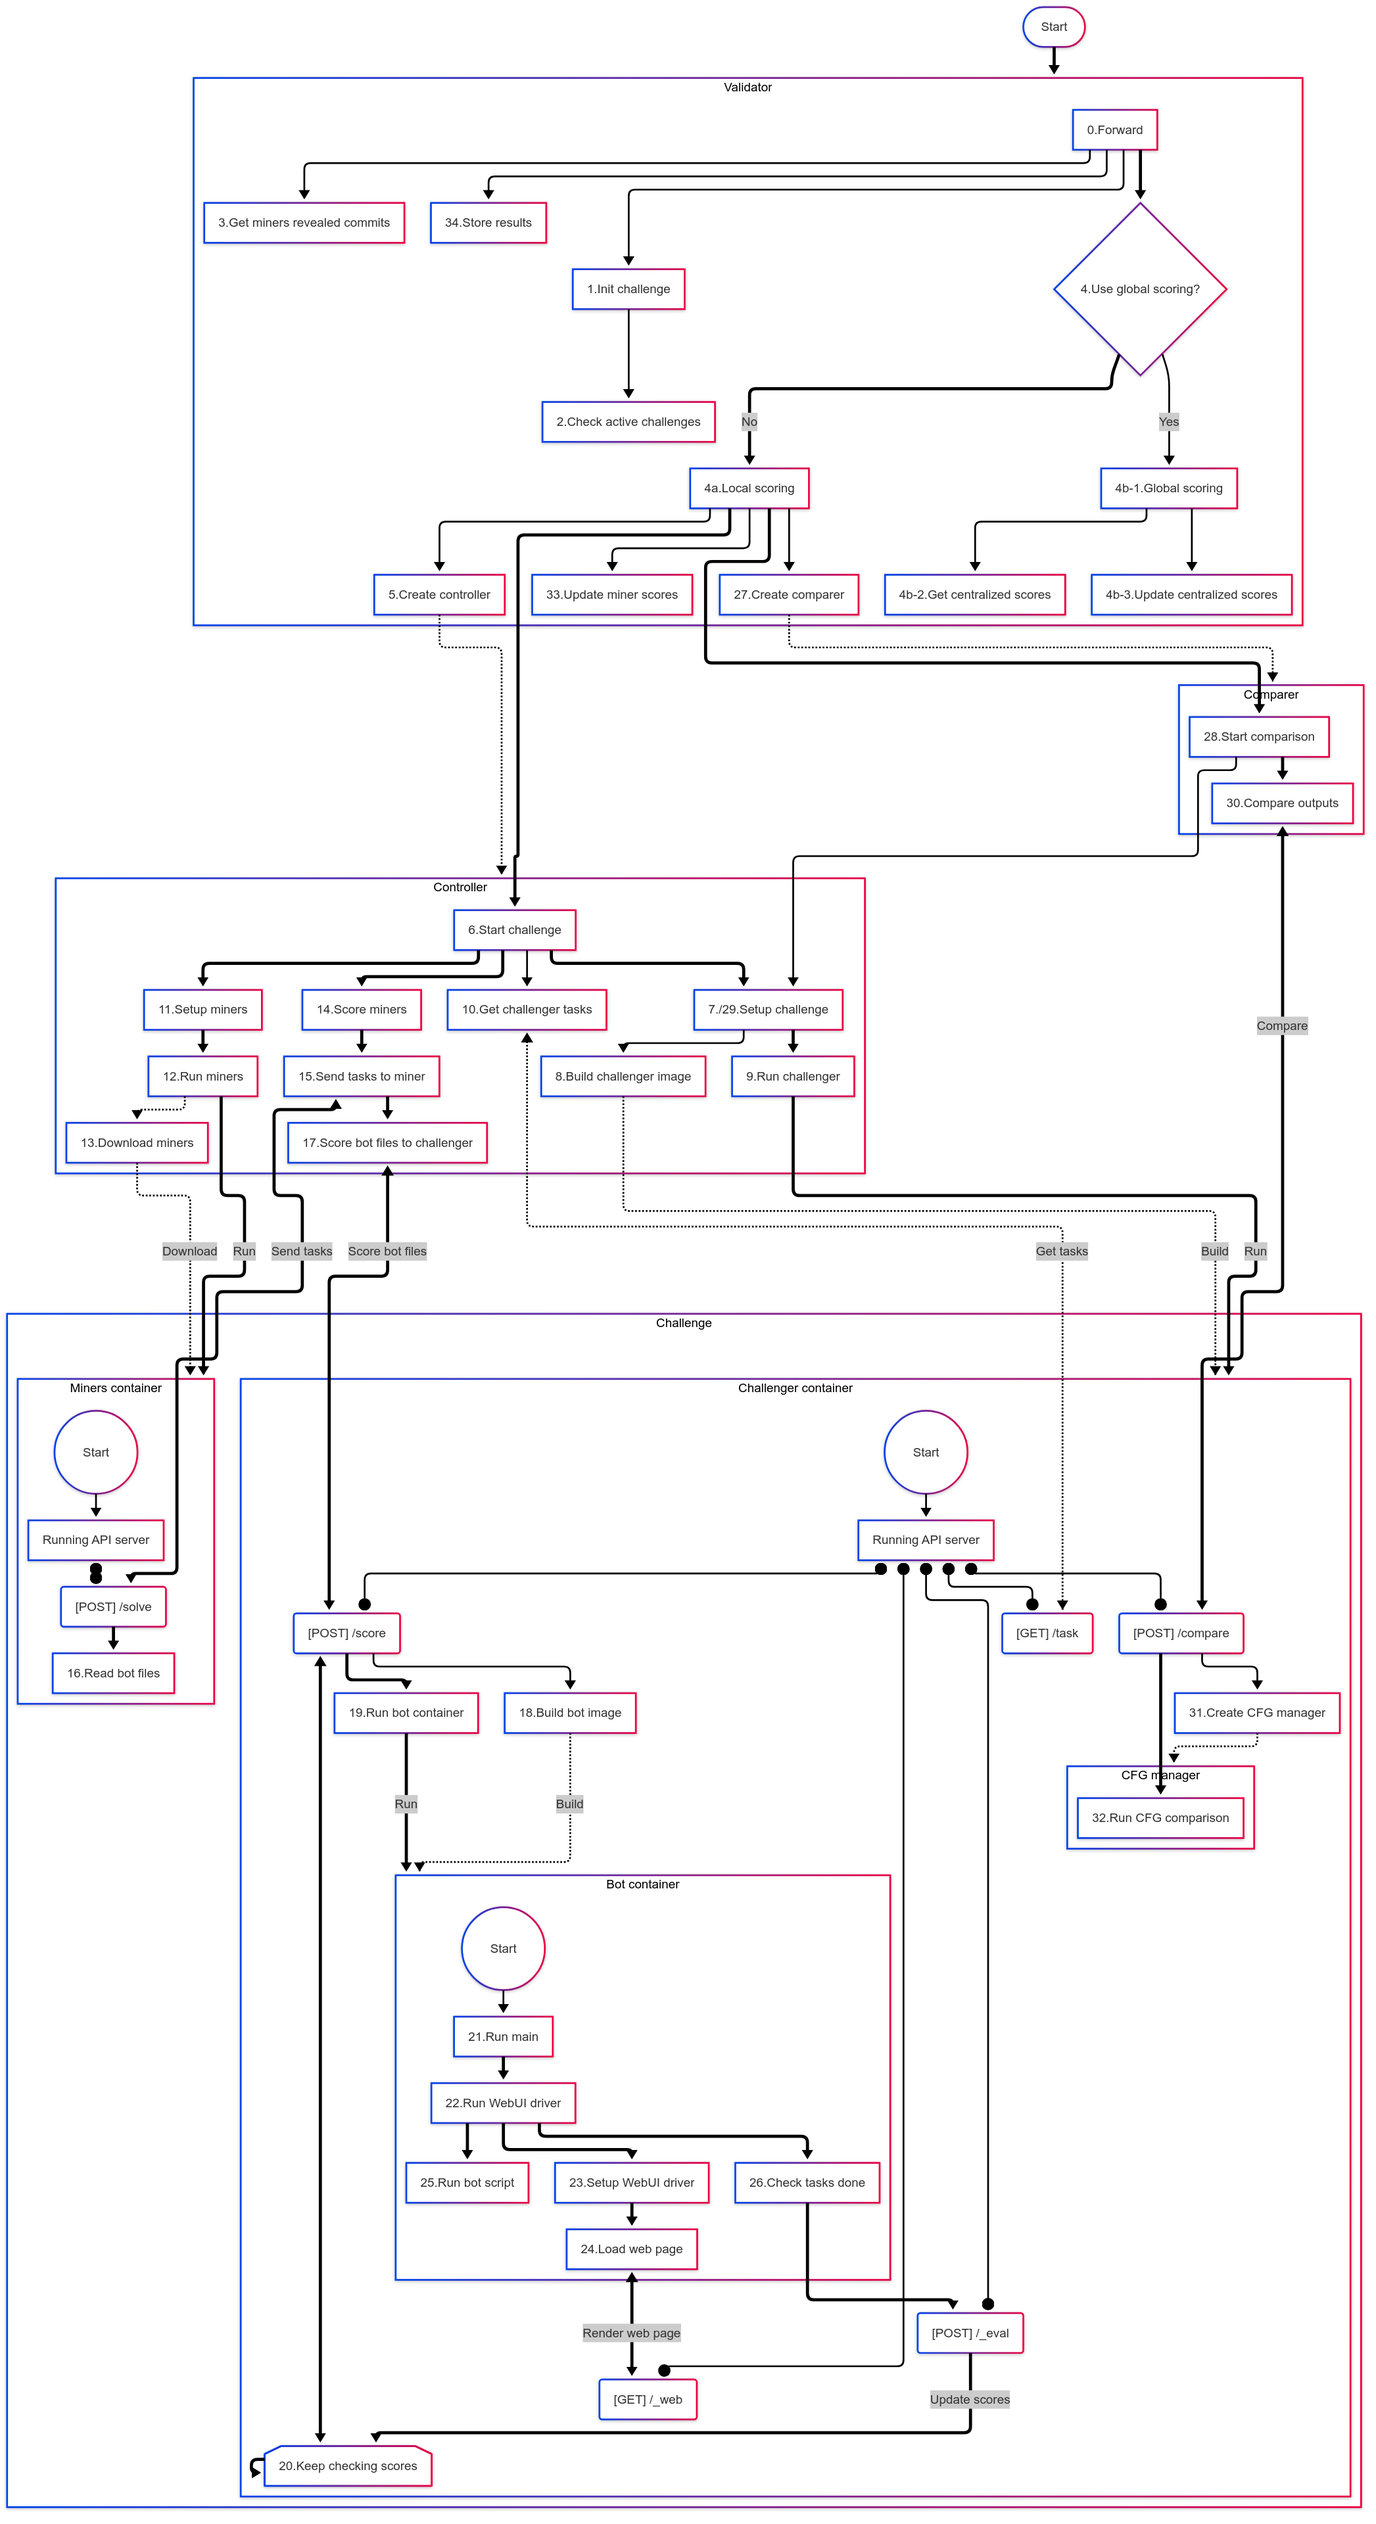
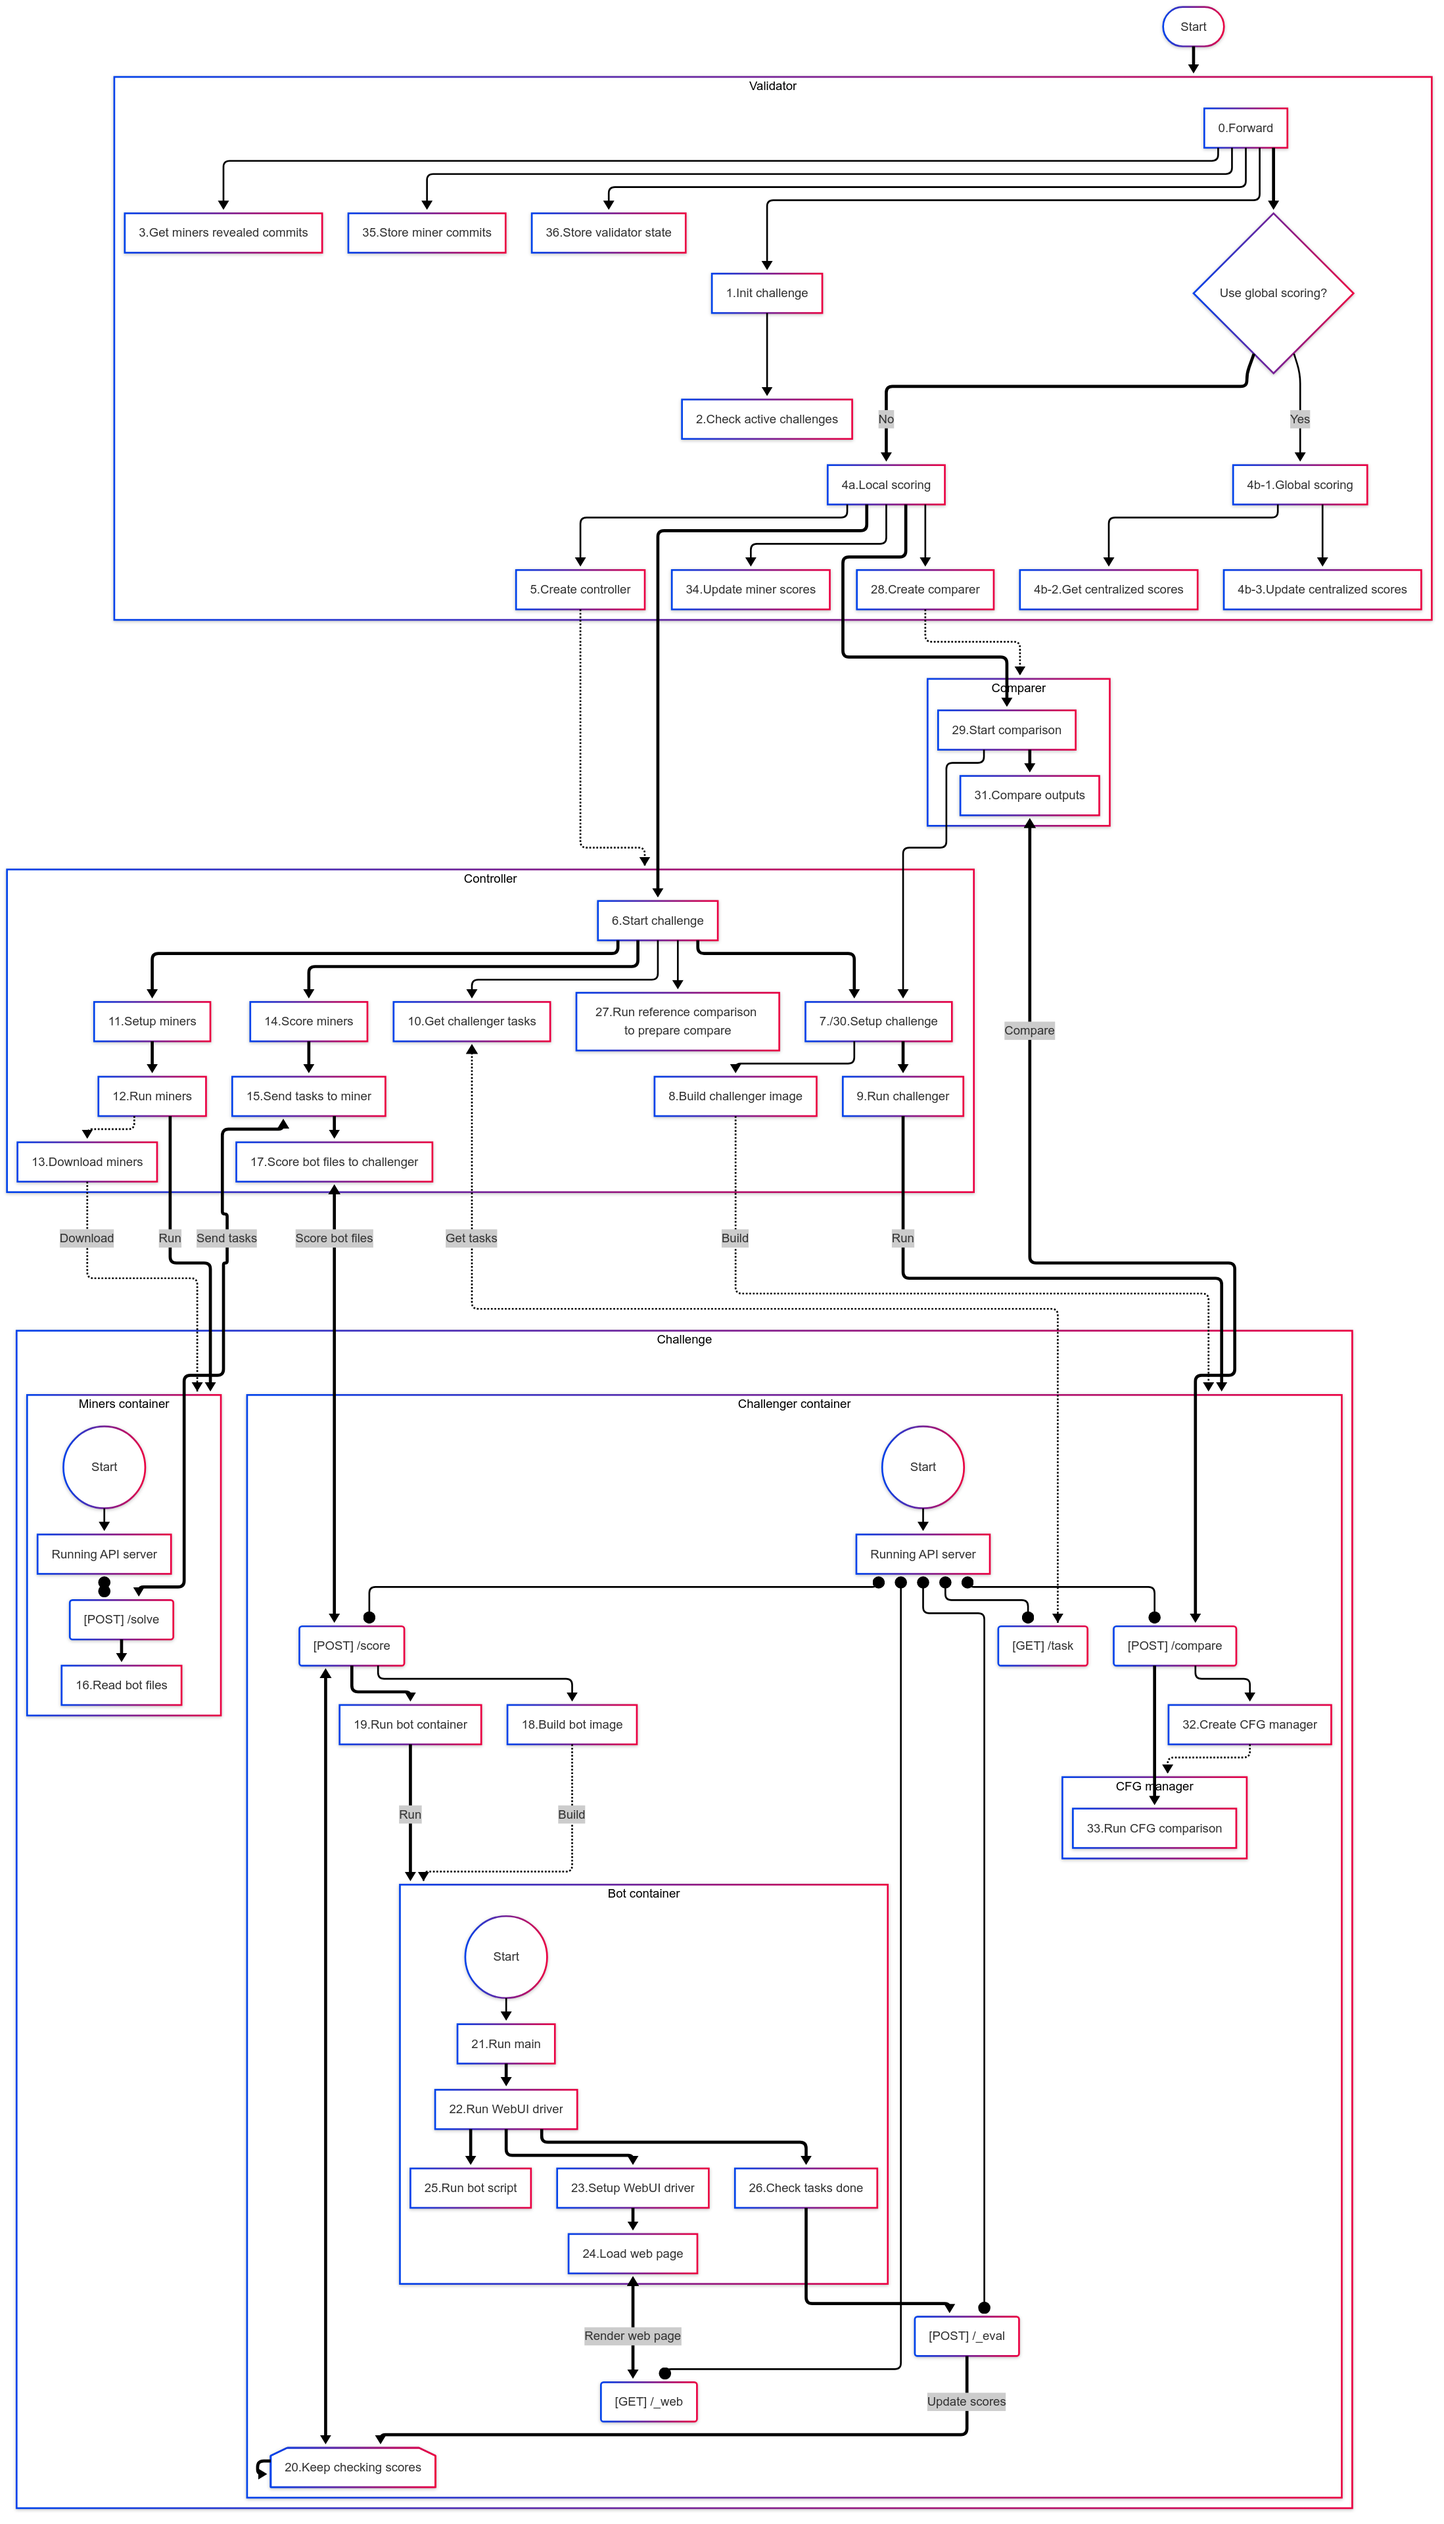
docs: update diagrams and flowchart for humanize behavior challenge

diff --git a/docs/diagrams/humanize_behaviour/general.md b/docs/diagrams/humanize_behaviour/general.md
@@ -7,19 +7,20 @@ flowchart TD
         vl_init_challenge["1.Init challenge"]
         vl_check_active_challenges["2.Check active challenges"]
         vl_get_miners_revealed_commits["3.Get miners revealed commits"]
-        vl_use_global_scoring{"4.Use global scoring?"}
+        vl_use_global_scoring{"Use global scoring?"}
         vl_local_scoring["4a.Local scoring"]
         vl_global_scoring["4b-1.Global scoring"]
         vl_get_centrailized_scores["4b-2.Get centralized scores"]
         vl_update_centrailized_scores["4b-3.Update centralized scores"]
         vl_create_controller["5.Create controller"]
-        vl_create_comparer["27.Create comparer"]
-        vl_update_miner_scores["33.Update miner scores"]
-        vl_store_miner_results["34.Store results"]
+        vl_create_comparer["28.Create comparer"]
+        vl_update_miner_scores["34.Update miner scores"]
+        vl_store_miner_commits["35.Store miner commits"]
+        vl_store_validator_state["36.Store validator state"]
   end
  subgraph controller["Controller"]
-        start_challenge["6.Start challenge"]
-        ct_setup_challenge["7./29.Setup challenge"]
+        ct_start_challenge["6.Start challenge"]
+        ct_setup_challenge["7./30.Setup challenge"]
         ct_build_challenger["8.Build challenger image"]
         ct_run_challenger["9.Run challenger"]
         ct_get_ch_tasks["10.Get challenger tasks"]
@@ -29,17 +30,18 @@ flowchart TD
         ct_score_miners["14.Score miners"]
         ct_send_tasks_mi["15.Send tasks to miner"]
         ct_send_bot_files["17.Score bot files to challenger"]
+        ct_run_refenrece_comparison["27.Run reference comparison to prepare compare"]
   end
  subgraph comparer["Comparer"]
-        start_comparison["28.Start comparison"]
-        cm_compare_outputs["30.Compare outputs"]
+        cm_start_comparison["29.Start comparison"]
+        cm_compare_outputs["31.Compare outputs"]
   end
  subgraph cfg_manager["CFG manager"]
-        run_cfg_comparison["32.Run CFG comparison"]
+        cfg_run_comparison["33.Run CFG comparison"]
   end
  subgraph bot_container["Bot container"]
-        start_bot_container(("Start"))
-        bt_run_main["21.Run main"]
+        bot_start_container(("Start"))
+        bot_run_main["21.Run main"]
         bot_run_webui_driver["22.Run WebUI driver"]
         bot_setup_driver["23.Setup WebUI driver"]
         bot_load_web_page["24.Load web page"]
@@ -47,7 +49,7 @@ flowchart TD
         bot_check_tasks_done["26.Check tasks done"]
   end
  subgraph challenger_container["Challenger container"]
-        start_challenger(("Start"))
+        ch_start_container(("Start"))
         ch_server["Running API server"]
         ch_task_endpoint["[GET] /task"]
         ch_score_endpoint["[POST] /score"]
@@ -57,39 +59,40 @@ flowchart TD
         ch_build_bot_image["18.Build bot image"]
         ch_run_bot_container["19.Run bot container"]
         ch_checking_scores["20.Keep checking scores"]
-        ch_create_cfg_manager["31.Create CFG manager"]
+        ch_create_cfg_manager["32.Create CFG manager"]
         cfg_manager
         bot_container
   end
  subgraph miners_container["Miners container"]
-        start_miner_container(("Start"))
+        mi_start_container(("Start"))
         mi_server["Running API server"]
         mi_solve_endpoint["[POST] /solve"]
         mi_read_bot_files["16.Read bot files"]
   end
- subgraph hb_challenge["Challenge"]
+ subgraph challenge["Challenge"]
         challenger_container
         miners_container
   end
     start(["Start"]) ==> validator
-    vl_forward --> vl_init_challenge & vl_get_miners_revealed_commits & vl_store_miner_results
+    vl_forward --> vl_init_challenge & vl_get_miners_revealed_commits & vl_store_miner_commits & vl_store_validator_state
     vl_forward ==> vl_use_global_scoring
     vl_init_challenge --> vl_check_active_challenges
     vl_use_global_scoring -- Yes --> vl_global_scoring
     vl_global_scoring --> vl_get_centrailized_scores & vl_update_centrailized_scores
     vl_use_global_scoring == No ==> vl_local_scoring
-    vl_local_scoring ---> vl_create_controller
+    vl_local_scoring --> vl_create_controller
     vl_create_controller -.-> controller
-    vl_local_scoring ==> start_challenge & start_comparison
+    vl_local_scoring ==> ct_start_challenge & cm_start_comparison
     vl_local_scoring --> vl_create_comparer & vl_update_miner_scores
     vl_create_comparer -.-> comparer
-    start_comparison --> ct_setup_challenge
-    start_comparison ==> cm_compare_outputs
-    start_challenge ==> ct_setup_challenge
-    start_challenge --> ct_get_ch_tasks
+    cm_start_comparison --> ct_setup_challenge
+    cm_start_comparison ==> cm_compare_outputs
+    ct_start_challenge ==> ct_setup_challenge
+    ct_start_challenge --> ct_get_ch_tasks
     ct_setup_challenge --> ct_build_challenger
     ct_setup_challenge ==> ct_run_challenger
-    start_challenge ====> ct_setup_miners & ct_score_miners
+    ct_start_challenge ==> ct_setup_miners & ct_score_miners
+    ct_start_challenge --> ct_run_refenrece_comparison
     ct_setup_miners ==> ct_run_miners
     ct_run_miners -.-> ct_download_miners
     ct_score_miners ==> ct_send_tasks_mi
@@ -97,31 +100,31 @@ flowchart TD
     ct_build_challenger -. Build .-> challenger_container
     ct_run_challenger == Run ==> challenger_container
     ct_download_miners -. Download .-> miners_container
-    ct_run_miners == Run =======> miners_container
+    ct_run_miners == Run ==> miners_container
     ct_get_ch_tasks <-. Get tasks .-> ch_task_endpoint
     ct_send_tasks_mi <== Send tasks ==> mi_solve_endpoint
-    ct_send_bot_files <== Score bot files =====> ch_score_endpoint
+    ct_send_bot_files <== Score bot files ======> ch_score_endpoint
     cm_compare_outputs <== Compare ==> ch_compare_endpoint
-    start_challenger --> ch_server
+    ch_start_container --> ch_server
     ch_server o--o ch_task_endpoint & ch_web_endpoint & ch_eval_endpoint & ch_compare_endpoint
     ch_server o---o ch_score_endpoint
     ch_score_endpoint --> ch_build_bot_image
     ch_score_endpoint ==> ch_run_bot_container
     ch_score_endpoint <==> ch_checking_scores
     ch_checking_scores ==> ch_checking_scores
-    ch_run_bot_container == Run =======> bot_container
-    bot_load_web_page <== Render web page =====> ch_web_endpoint
-    ch_build_bot_image -. Build .....-> bot_container
+    ch_run_bot_container == Run ==> bot_container
+    bot_load_web_page <== Render web page ==> ch_web_endpoint
+    ch_build_bot_image -. Build .-> bot_container
     bot_check_tasks_done ==> ch_eval_endpoint
     ch_eval_endpoint == Update scores ==> ch_checking_scores
     ch_compare_endpoint --> ch_create_cfg_manager
-    ch_compare_endpoint ==> run_cfg_comparison
+    ch_compare_endpoint ==> cfg_run_comparison
     ch_create_cfg_manager -.-> cfg_manager
-    start_bot_container --> bt_run_main
-    bt_run_main ==> bot_run_webui_driver
+    bot_start_container --> bot_run_main
+    bot_run_main ==> bot_run_webui_driver
     bot_run_webui_driver ==> bot_setup_driver & bot_run_script & bot_check_tasks_done
     bot_setup_driver ==> bot_load_web_page
-    start_miner_container --> mi_server
+    mi_start_container --> mi_server
     mi_server o--o mi_solve_endpoint
     mi_solve_endpoint ==> mi_read_bot_files
     vl_forward@{ shape: rect}
@@ -135,8 +138,9 @@ flowchart TD
     vl_create_controller@{ shape: rect}
     vl_create_comparer@{ shape: rect}
     vl_update_miner_scores@{ shape: rect}
-    vl_store_miner_results@{ shape: rect}
-    start_challenge@{ shape: rect}
+    vl_store_miner_commits@{ shape: rect}
+    vl_store_validator_state@{ shape: rect}
+    ct_start_challenge@{ shape: rect}
     ct_setup_challenge@{ shape: rect}
     ct_build_challenger@{ shape: rect}
     ct_run_challenger@{ shape: rect}
@@ -147,10 +151,11 @@ flowchart TD
     ct_score_miners@{ shape: rect}
     ct_send_tasks_mi@{ shape: rect}
     ct_send_bot_files@{ shape: rect}
-    start_comparison@{ shape: rect}
+    ct_run_refenrece_comparison@{ shape: rect}
+    cm_start_comparison@{ shape: rect}
     cm_compare_outputs@{ shape: rect}
-    run_cfg_comparison@{ shape: rect}
-    bt_run_main@{ shape: rect}
+    cfg_run_comparison@{ shape: rect}
+    bot_run_main@{ shape: rect}
     bot_run_webui_driver@{ shape: rect}
     bot_setup_driver@{ shape: rect}
     bot_load_web_page@{ shape: rect}
